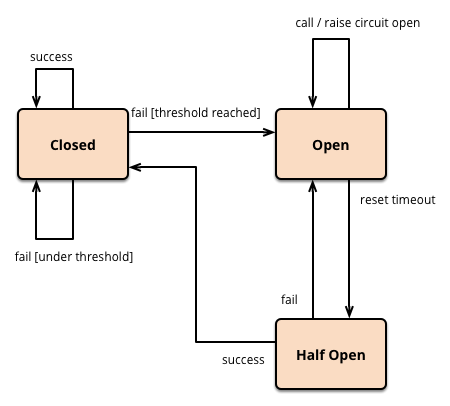
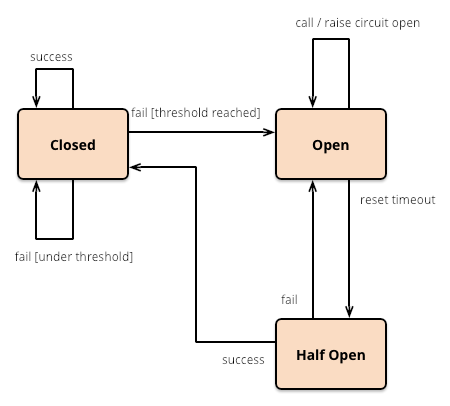
Site update at 2018-10-05T23:00:43+0200

diff --git a/2018/10/tolerancia-a-fallos-en-un-cliente-de-microservicio-con-spring-cloud-netflix-y-hystrix/index.html b/2018/10/tolerancia-a-fallos-en-un-cliente-de-microservicio-con-spring-cloud-netflix-y-hystrix/index.html
@@ -11,7 +11,7 @@ Un patrón o técnica que se suele emplear es el Circuit Breaker en Java y con S
 <a href=/blog-bitix/pages/links/ class="nav-item nav-link">Enlaces</a>
 <a href=/blog-bitix/pages/about/ class="nav-item nav-link">Acerca de...</a></nav></div></div></header></div></div><div class=row><div class="col-12 col-lg-8"><div class=row><div class=col-12><article itemscope itemtype=http://schema.org/BlogPosting><meta itemprop=inLanguage content=es><meta itemprop=keywords content="java, planeta-codigo, programacion"><h1 itemprop=name>Tolerancia a fallos en un cliente de microservicio con Spring Cloud Netflix y Hystrix</h1><p class=information>Escrito por <span itemscope itemtype=http://schema.org/Person><span itemprop=name>picodotdev</span></span> el <time itemprop=datePublished datetime=2018-10-05>05/10/2018</time>.<br><a href=tags/java/>java</a> <a href=tags/planeta-codigo/>planeta-codigo</a> <a href=tags/programacion/>programacion</a><br><a href=/blog-bitix/2018/10/tolerancia-a-fallos-en-un-cliente-de-microservicio-con-spring-cloud-netflix-y-hystrix/ itemprop=url>Enlace permanente</a>
 <a href=/blog-bitix/2018/10/tolerancia-a-fallos-en-un-cliente-de-microservicio-con-spring-cloud-netflix-y-hystrix/#comments>Comentarios</a></p><ins class=adsbygoogle style=display:inline-block;width:728px;height:90px data-ad-client=ca-pub-3533636310991304 data-ad-slot=5966819782 data-type=leaderboard></ins><script>(adsbygoogle=window.adsbygoogle||[]).push({});</script><div class=content itemprop=articleBody><meta itemprop=wordCount content=862><div class=logotypes style=float:right><img src=assets/images/logotipos/spring.svg class=right width=200 alt=Spring title=Spring></div><div class=logotypes style=float:right;clear:right><img src=assets/images/logotipos/java.svg class=right width=200 alt=Java title=Java></div><p>Los microservicios son independientes unos de otros y se comunican mediante operaciones de red. Dado que las operaciones se realizan mediante un medio no confiable como la red, dada su naturaleza efímera y dado que pueden fallar en los microservicios es importante que los clientes estén preparados para posibles fallos.</p><p>Un patrón o técnica que se suele emplear es el <a href=https://www.martinfowler.com/bliki/CircuitBreaker.html>Circuit Breaker</a> en Java y con <a href=https://spring.io/>Spring</a> se ofrece en el proyecto <a href=https://cloud.spring.io/spring-cloud-netflix/>Spring Cloud Netflix</a> mediante <a href=https://github.com/Netflix/Hystrix>Hystrix</a>. Este patrón soluciona varios problemas cuando un microservicio falla.</p><ul><li>Uno es que cuando un microservicio empieza a fallar es necesario dejar de hacerle peticiones para permitirle recuperarse si está demasiado saturado. Cuando ocurre un fallo es posible realizar una acción en sustitución de la llamada al microservicio y devolver un valor alternativo.</li><li>Otro problema es que el microservicio aunque no falle tarde demasiado en responder se puede establecer un <em>timeout</em> que si se supera se deja de esperar la respuesta lo que evita que los microservicios que usan uno que tarda demasiado agote sus recursos y empiecen a fallar o tardar demasiado también si tienen muchas llamadas</li></ul><p>En ambos casos se evita que la cadena de microservicios empiece a fallar y con ello sistema completo.</p><div class=media style=text-align:center><img src=/blog-bitix/2018/10/tolerancia-a-fallos-en-un-cliente-de-microservicio-con-spring-cloud-netflix-y-hystrix/images/hystrix_hub9140d7d7b18b1dc3937691a78958e9a_86330_650x450_fit_box_2.png width=640 height=225></a></div><p>El patrón <em>circuit breaker</em> se denomina así ya que implementa una lógica similar a un circuito eléctrico. El circuito de forma normal está cerrado y se realizan las llamadas al microservicio servidor de forma normal. Si el microservicio servidor empieza a fallar se llama a la acción alternativa para obtener un valor, si se supera un umbral de errores el circuito pasa a estado abierto y se dejan de hacer llamadas el microservicio servidor. Cada cierto tiempo definido se realiza una llamada para comprobar el estado de microservicio servidor de forma que si empieza a responder correctamente el circuito pasa a estado cerrado y las siguientes llamadas se realizan al microservicio dejándose de utilizar la acción alternativa.</p><div class=media style=text-align:center><figure><a href=/blog-bitix/2018/10/tolerancia-a-fallos-en-un-cliente-de-microservicio-con-spring-cloud-netflix-y-hystrix/images/circuit-breaker-diagram_hu4845d342695fc4ba4f8fa8d72c767f7b_90482_2560x1440_fit_box_2.png title="Diagrama del patrón circuit breaker" data-gallery><img src=/blog-bitix/2018/10/tolerancia-a-fallos-en-un-cliente-de-microservicio-con-spring-cloud-netflix-y-hystrix/images/circuit-breaker-diagram_hu4845d342695fc4ba4f8fa8d72c767f7b_90482_300x200_fit_box_2.png width=126 height=200></a>
-<a href=/blog-bitix/2018/10/tolerancia-a-fallos-en-un-cliente-de-microservicio-con-spring-cloud-netflix-y-hystrix/images/circuit-breaker-states_hudf28f69dafef749abaf7c7a3bcb9ec8c_21265_2560x1440_fit_box_2.png title="Diagrama de estados" data-gallery><img src=/blog-bitix/2018/10/tolerancia-a-fallos-en-un-cliente-de-microservicio-con-spring-cloud-netflix-y-hystrix/images/circuit-breaker-states_hudf28f69dafef749abaf7c7a3bcb9ec8c_21265_300x200_fit_box_2.png width=221 height=200></a>
+<a href=/blog-bitix/2018/10/tolerancia-a-fallos-en-un-cliente-de-microservicio-con-spring-cloud-netflix-y-hystrix/images/circuit-breaker-states_hu56e2a01b6636c9453b9193ae50db8c8e_29040_2560x1440_fit_box_2.png title="Diagrama de estados" data-gallery><img src=/blog-bitix/2018/10/tolerancia-a-fallos-en-un-cliente-de-microservicio-con-spring-cloud-netflix-y-hystrix/images/circuit-breaker-states_hu56e2a01b6636c9453b9193ae50db8c8e_29040_300x200_fit_box_2.png width=221 height=200></a>
 <a href=/blog-bitix/2018/10/tolerancia-a-fallos-en-un-cliente-de-microservicio-con-spring-cloud-netflix-y-hystrix/images/hystrix-fallback_hu341ff0d18f5e14bb81f44a2d6d1769ba_44880_2560x1440_fit_box_2.png title="Fallback del patrón circuit breaker" data-gallery><img src=/blog-bitix/2018/10/tolerancia-a-fallos-en-un-cliente-de-microservicio-con-spring-cloud-netflix-y-hystrix/images/hystrix-fallback_hu341ff0d18f5e14bb81f44a2d6d1769ba_44880_300x200_fit_box_2.png width=300 height=196></a><figcaption>Diagrama del patrón circuit breaker, de estados y método fallback</figcaption></figure></div><p>Para utilizar Hystrix como implementación del patrón <em>circuit breaker</em> en una aplicación Java con <a href=https://projects.spring.io/spring-boot/>Spring Boot</a> el método que realiza la llamada al microservicio servidor ha de anotarse con la anotación <a href=https://netflix.github.io/Hystrix/javadoc/com/netflix/hystrix/HystrixCommand.html>@HystrixCommand</a>, como parámetro se indica el método <em>fallback</em> para obtener un valor por defecto cuando el microservicio falle, también se puede indicar el <em>tiemout</em> de espera antes de considerar que la llamada ha fallado con la propiedad <em>execution.isolation.thread.timeoutInMilliseconds</em>. También se pueden indicar los valores para considerar el circuito abierto con <em>circuitBreaker.requestVolumeThreshold</em> y <em>circuitBreaker.errorThresholdPercentage</em>. Y eso es lo básico que hay que hacer para utilizar este patrón de tolerancia a fallos. Tiene <a href=https://github.com/Netflix/Hystrix/tree/master/hystrix-contrib/hystrix-javanica#configuration>algunos valores adicionales más que se pueden configurar</a> para adaptar el patrón a los valores óptimos de la aplicación.</p><p>En el ejemplo el cliente en un bucle realiza las llamadas al servicio con un método <em>get()</em> anotado con <em>@HystrixCommand</em>. En este método se encapsula la petición HTTP que puede fallar utilizando la librería <a href=https://jersey.java.net/>Jersey</a> obtenida la ubicación de una instancia del servicio a su vez del servicio de registro y descubrimiento <a href=https://github.com/Netflix/eureka>Eureka</a>.</p><script type=application/javascript src="//gist.github.com/picodotdev/7d1de9a669612dce06d3a5a35e4831d7.js?file=ClientService.java"></script><script type=application/javascript src="//gist.github.com/picodotdev/7d1de9a669612dce06d3a5a35e4831d7.js?file=Main.java"></script><script type=application/javascript src="//gist.github.com/picodotdev/7d1de9a669612dce06d3a5a35e4831d7.js?file=build.gradle"></script><p>El circuito se abre cuando el número de llamadas supera un umbral y el porcentaje de fallo se supera, se han de dar las dos condiciones, si el número de llamadas que se realizan no superan el umbral aunque todas fallen el circuito permanece cerrado. Ambos valores son personalizables con las propiedades <em>circuitBreaker.requestVolumeThreshold</em> y <em>circuitBreaker.errorThresholdPercentage</em>. El circuito permanece abierto durante el tiempo indicado por <em>metrics.rollingStats.timeInMilliseconds</em>. Por otro lado, el tiempo de <em>timeout</em> se puede indicar en la anotación por cada llamada a servicio o en el archivo de configuración de la aplicación en la propiedad <em>hystrix.command.get.execution.isolation.thread.timeoutInMilliseconds</em> donde <em>get</em> es el nombre del comando obtenido por defecto del nombre del método anotado.</p><script type=application/javascript src="//gist.github.com/picodotdev/7d1de9a669612dce06d3a5a35e4831d7.js?file=DefaultController.java"></script><p>En la aplicación ejemplo hay un microservicio servidor y un microservicio cliente, iniciando una instancia de microservicio servidor y una instancia del microservicio cliente que implementa el patrón <em>circuit breaker</em> inicialmente las peticiones se realizarán correctamente si no ocurre un <em>timeout</em>. Si se finaliza el proceso del microservicio servidor de forma inesperada las peticiones del cliente al servidor empezarán a fallar y obtener el valor alternativo del método <em>fallback</em>, si se supera el umbral de llamadas el circuito pasa a estado abierto. Si el servicio servidor se inicia de nuevo pasado unos instantes después de que esté disponible se cerrará el circuito y a obtener los valores devueltos por el microservicio.</p><script type=application/javascript src="//gist.github.com/picodotdev/7d1de9a669612dce06d3a5a35e4831d7.js?file=System.out"></script><p>Para monitorizar el estado del sistema y de los circuitos se puede visualizar en un <em>dashboard</em>. El número de peticiones que se están realizando, las fallidas, el estado de los circuitos, las que fallan por <em>timeout</em> o las que fallan con error. Para tener acceso a esta página hay que incluir la dependencia <em>org.springframework.cloud:spring-cloud-starter-netflix-hystrix-dashboard</em>. La página <em>dashoard</em> está disponible en la dirección <em>http://localhost:8085/hystrix</em>.</p><div class=media style=text-align:center><figure><a href=/blog-bitix/2018/10/tolerancia-a-fallos-en-un-cliente-de-microservicio-con-spring-cloud-netflix-y-hystrix/images/circuit-breaker-closed_huce59696db4bb781bd0e709b415bf52e8_382684_2560x1440_fit_box_2.png title="Circuit breaker cerrado" data-gallery><img src=/blog-bitix/2018/10/tolerancia-a-fallos-en-un-cliente-de-microservicio-con-spring-cloud-netflix-y-hystrix/images/circuit-breaker-closed_huce59696db4bb781bd0e709b415bf52e8_382684_300x200_fit_box_2.png width=300 height=182></a>
 <a href=/blog-bitix/2018/10/tolerancia-a-fallos-en-un-cliente-de-microservicio-con-spring-cloud-netflix-y-hystrix/images/circuit-breaker-open_huce59696db4bb781bd0e709b415bf52e8_384418_2560x1440_fit_box_2.png title="Circuit breaker abierto" data-gallery><img src=/blog-bitix/2018/10/tolerancia-a-fallos-en-un-cliente-de-microservicio-con-spring-cloud-netflix-y-hystrix/images/circuit-breaker-open_huce59696db4bb781bd0e709b415bf52e8_384418_300x200_fit_box_2.png width=300 height=182></a><figcaption>Estados del circuit breaker</figcaption></figure></div><script type=application/javascript src="//gist.github.com/picodotdev/7d1de9a669612dce06d3a5a35e4831d7.js?file=.%2fgradle-run.sh"></script><p>El <a href=https://github.com/picodotdev/blog-ejemplos/tree/master/SpringCloud>código fuente completo del ejemplo</a> puedes descargarlo del repositorio de ejemplos de Blog Bitix alojado en <a href=https://github.com/>GitHub</a> y probarlo en tu equipo ejecutando el comando <code>./gradle-run.sh</code>.</p><div class=reference>Referencia:<br><ul><li><a href=https://www.martinfowler.com/bliki/CircuitBreaker.html>CircuitBreaker</a></li><li><a href=http://cloud.spring.io/spring-cloud-static/spring-cloud-netflix/2.0.1.RELEASE/single/spring-cloud-netflix.html#_circuit_breaker_hystrix_clients>Circuit Breaker: Hystrix Clients</a></li><li><a href=https://github.com/Netflix/Hystrix/tree/master/hystrix-contrib/hystrix-javanica#configuration>Hyxtrix Configuration (1)</a></li><li><a href=https://github.com/Netflix/Hystrix/wiki/Configuration>Hyxtrix Configuration (2)</a></li><li><a href=http://www.javamagazine.mozaicreader.com/SeptemberOctober2018/Twitter>Java Mgazine Sep/Oct 2018</a></li></ul></div><p>El <a href=https://github.com/picodotdev/blog-ejemplos/tree/master/SpringCloud>código fuente completo del ejemplo</a> puedes descargarlo del repositorio de ejemplos de Blog Bitix alojado en <a href=https://github.com/>GitHub</a> y probarlo en tu equipo ejecutando el comando <code>./gradle-run.sh</code>.</p></div></article></div></div><div class="row serie"><div class=col-12><p>Este artículo forma parte de la serie <b>spring-cloud</b>:</p><ol class=serie-articles><li><a href=https://picodotdev.github.io/blog-bitix/2015/03/datos-de-sesion-externalizados-con-spring-session/>Datos de sesión externalizados con Spring Session</a></li><li><a href=https://picodotdev.github.io/blog-bitix/2015/10/aplicacion-java-autocontenida-con-spring-boot/>Aplicación Java autocontenida con Spring Boot</a></li><li><a href=https://picodotdev.github.io/blog-bitix/2015/11/configuracion-de-una-aplicacion-en-diferentes-entornos-con-spring-cloud-config/>Configuración de una aplicación en diferentes entornos con Spring Cloud Config</a></li><li><a href=https://picodotdev.github.io/blog-bitix/2015/12/informacion-y-metricas-de-la-aplicacion-con-spring-boot-actuator/>Información y métricas de la aplicación con Spring Boot Actuator</a></li><li><a href=https://picodotdev.github.io/blog-bitix/2017/01/registro-y-descubrimiento-de-servicios-con-spring-cloud-y-consul/>Registro y descubrimiento de servicios con Spring Cloud y Consul</a></li><li><a href=https://picodotdev.github.io/blog-bitix/2018/08/aplicaciones-basadas-en-microservicios/>Aplicaciones basadas en microservicios</a></li><li><a href=https://picodotdev.github.io/blog-bitix/2018/09/registro-y-descubrimiento-de-servicios-con-spring-cloud-netflix/>Registro y descubrimiento de servicios con Spring Cloud Netflix</a></li><li><a href=https://picodotdev.github.io/blog-bitix/2018/09/servicio-de-configuracion-para-microservicios-con-spring-cloud-config/>Servicio de configuración para microservicios con Spring Cloud Config</a></li><li><a href=https://picodotdev.github.io/blog-bitix/2018/09/recargar-sin-reiniciar-la-configuracion-de-una-aplicacion-spring-boot-con-spring-cloud-config/>Recargar sin reiniciar la configuración de una aplicación Spring Boot con Spring Cloud Config</a></li><li><a href=https://picodotdev.github.io/blog-bitix/2018/09/almacenar-cifrados-los-valores-de-configuracion-sensibles-en-spring-cloud-config/>Almacenar cifrados los valores de configuración sensibles en Spring Cloud Config</a></li><li><a href=https://picodotdev.github.io/blog-bitix/2018/10/tolerancia-a-fallos-en-un-cliente-de-microservicio-con-spring-cloud-netflix-y-hystrix/>Tolerancia a fallos en un cliente de microservicio con Spring Cloud Netflix y Hystrix</a></li></ol></div></div><div class=row><div class=col-md-12><div class=sharethis-inline-share-buttons></div></div></div><div class=row><div class=col-12><ins class=adsbygoogle style=display:inline-block;width:728px;height:90px data-ad-client=ca-pub-3533636310991304 data-ad-slot=5966819782 data-type=leaderboard></ins><script>(adsbygoogle=window.adsbygoogle||[]).push({});</script></div></div><a id=comments></a><div class=row><div class=col-md-12><div id=disqus_thread></div></div></div><script type=text/javascript async>var disqus_shortname='blog-bitix';var disqus_identifier='https:\/\/picodotdev.github.io\/blog-bitix\/2018\/10\/tolerancia-a-fallos-en-un-cliente-de-microservicio-con-spring-cloud-netflix-y-hystrix\/';var disqus_url='https:\/\/picodotdev.github.io\/blog-bitix\/2018\/10\/tolerancia-a-fallos-en-un-cliente-de-microservicio-con-spring-cloud-netflix-y-hystrix\/';var disqus_script='embed.js';(function(){var dsq=document.createElement('script');dsq.type='text/javascript';dsq.async=true;dsq.src='//'+disqus_shortname+'.disqus.com/'+disqus_script;(document.getElementsByTagName('head')[0]||document.getElementsByTagName('body')[0]).appendChild(dsq);}());</script></div><div class="col-12 col-lg-4"><div class=row><div class="col-md-12 text-center"><ins class=adsbygoogle style=display:inline-block;width:300px;height:600px data-ad-client=ca-pub-3533636310991304 data-ad-slot=9559414587 data-type=large-skycraper></ins><script>(adsbygoogle=window.adsbygoogle||[]).push({});</script></div></div><div class=row><div class="col-md-12 text-center"><ins class=adsbygoogle style=display:inline-block;width:336px;height:280px data-ad-client=ca-pub-3533636310991304 data-ad-slot=2873752587 data-type=large-rectangle></ins><script>(adsbygoogle=window.adsbygoogle||[]).push({});</script></div></div><div class="row text-center banner"><div class=col-12><a href=https://picodotdev.github.io/blog-bitix/2015/12/yo-apoyo-al-software-libre-tu-tambien/><img src=//static.fsf.org/nosvn/images/badges/badges_es/i-support-fs_red-bg-es.png alt="Yo apoyo al software libre"></a></div></div><div class=row><div class=col-md-12><hr></div></div><div class=row><div class=col-md-12><ul class="list-unstyled recents"><li><span class="glyphicon glyphicon-hand-right"></span><a href=archive/>Más artículos recientes en el archivo</a></li></ul></div></div></div></div><div class=row><div class=col-12><hr></div></div><footer><div class=row><div class="col-12 col-sm-4"><p><strong>Blog Bitix</strong></p><p>Blog dedicado a la distribución GNU/Linux que uso habitualmente, Arch Linux, a mis andanzas alrededor del software libre, la programación y a otros temas relacionados con la tecnología y la informática.</p><p>Publicando de uno a tres artículos únicos a la semana desde el año 2010.</p></div><div class="col-12 col-sm-4 text-center menu"><ul class=list-unstyled><li><a href=/blog-bitix/tags/java/>Java</a></li><li><a href=/blog-bitix/tags/gnu-linux/>GNU/Linux</a></li><li><a href=/blog-bitix/tags/javascript/>JavaScript</a></li><li><a href=/blog-bitix/tags/tapestry/>Tapestry</a></li><li><a href=/blog-bitix/archive/>Archivo y hemeroteca</a></li><li><a href=/blog-bitix/pages/links/>Enlaces</a></li><li><a href=/blog-bitix/pages/advertising/>Publicidad</a></li><li><a href=/blog-bitix/pages/donate/>Donaciones</a></li><li><a href=/blog-bitix/pages/about/>Acerca de...</a></li></ul></div><div class="col-12 col-sm-4 text-center links"><a href=index.xml title="¡Suscríbete a Blog Bitix!"><img src=assets/images/rss.png class=icon></a>
 <a href=https://twitter.com/picodotdev/ title="¡Sígueme en twitter!"><img src=assets/images/twitter.svg class=icon></a>
